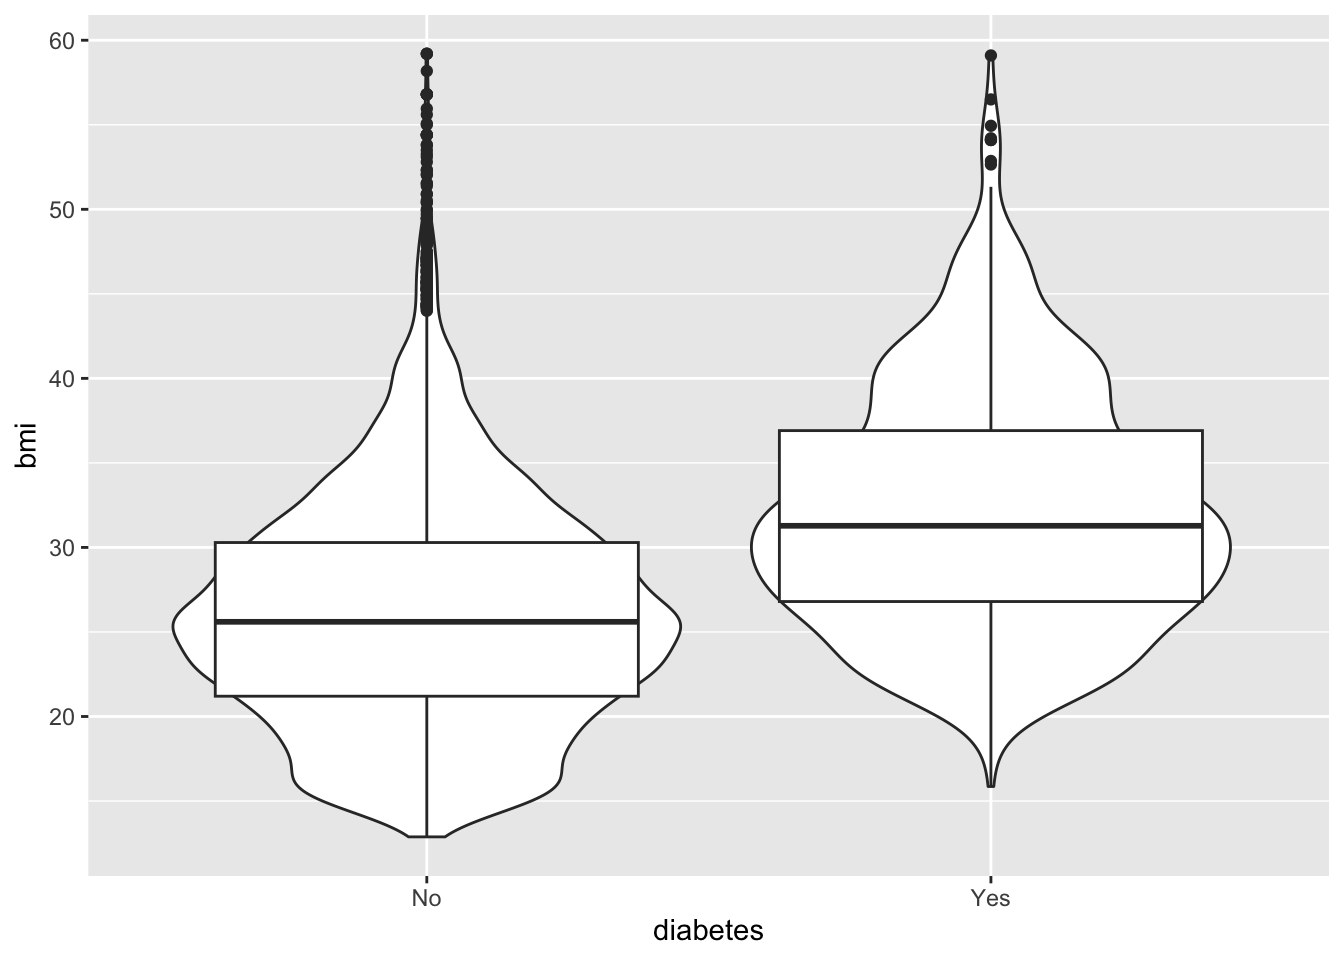
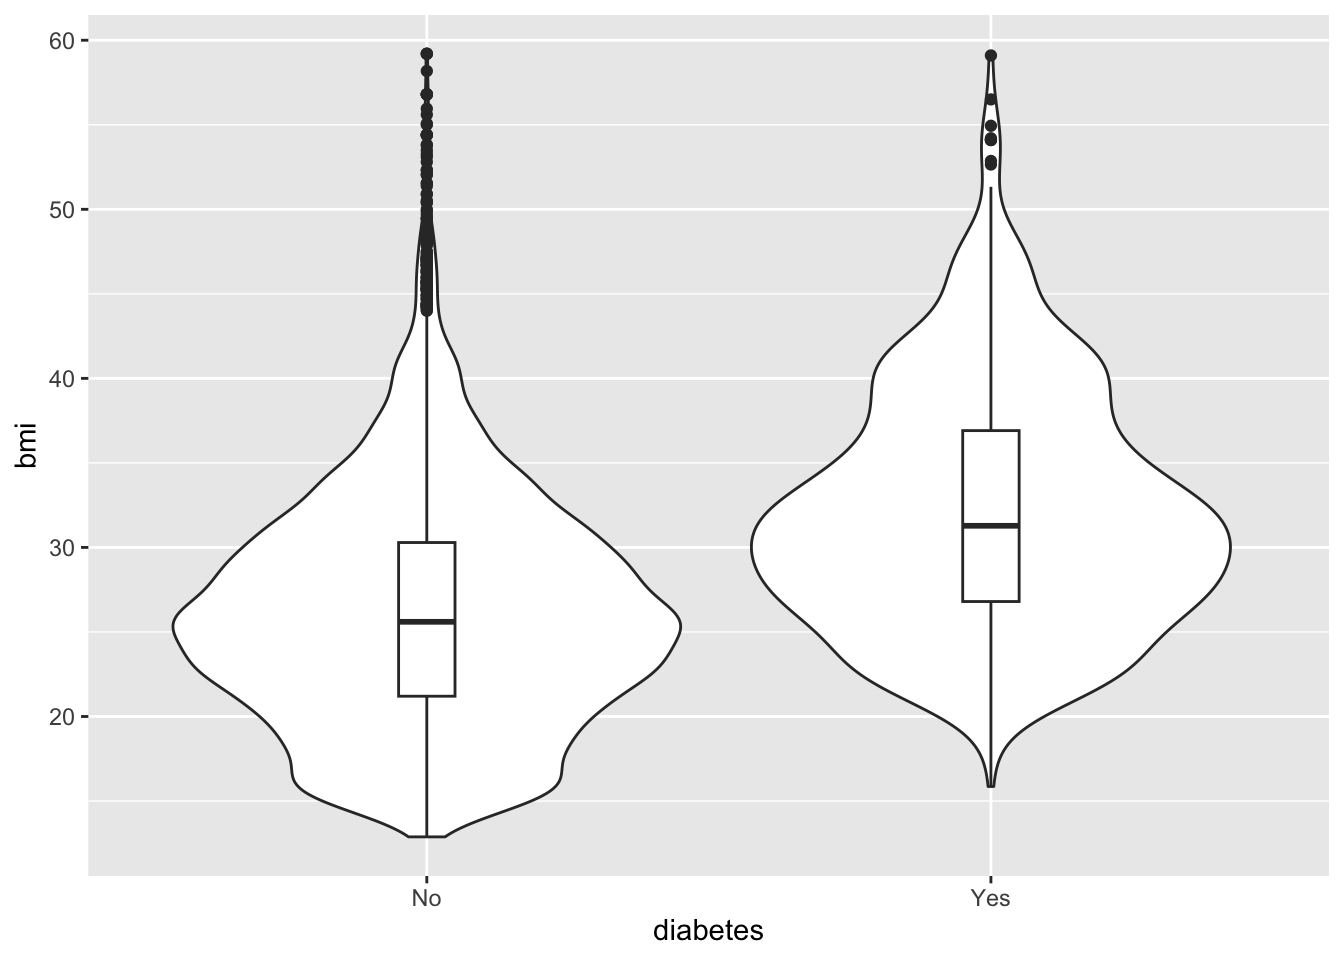
9.5 Exercise: Creating plots with one or two variables

diff --git a/doc/learning.html b/doc/learning.html
@@ -469,13 +469,87 @@ code span.wa { color: #60a0b0; font-weight: bold; font-style: italic; } /* Warni
 <span id="cb13-2"><a href="#cb13-2" aria-hidden="true" tabindex="-1"></a>    <span class="fu">filter</span>(<span class="sc">!</span><span class="fu">is.na</span>(diabetes), bmi <span class="sc">&lt;=</span> <span class="dv">60</span>) <span class="sc">%&gt;%</span> </span>
 <span id="cb13-3"><a href="#cb13-3" aria-hidden="true" tabindex="-1"></a>    <span class="fu">ggplot</span>(<span class="fu">aes</span>(<span class="at">x =</span> diabetes, <span class="at">y =</span> bmi)) <span class="sc">+</span></span>
 <span id="cb13-4"><a href="#cb13-4" aria-hidden="true" tabindex="-1"></a>    <span class="fu">geom_violin</span>(<span class="at">na.rm =</span> <span class="cn">TRUE</span>) <span class="sc">+</span></span>
-<span id="cb13-5"><a href="#cb13-5" aria-hidden="true" tabindex="-1"></a>    <span class="fu">geom_boxplot</span>(<span class="at">na.rm =</span> <span class="cn">TRUE</span>)</span></code><button title="Copy to Clipboard" class="code-copy-button"><i class="bi"></i></button></pre></div>
+<span id="cb13-5"><a href="#cb13-5" aria-hidden="true" tabindex="-1"></a>    <span class="fu">geom_boxplot</span>(<span class="at">na.rm =</span> <span class="cn">TRUE</span>, <span class="at">width=</span><span class="fl">0.1</span>)</span></code><button title="Copy to Clipboard" class="code-copy-button"><i class="bi"></i></button></pre></div>
 <div class="cell-output-display">
 <p><img src="learning_files/figure-html/unnamed-chunk-8-1.png" class="img-fluid" width="672"></p>
 </div>
 </div>
-<p>```</p>
 </section>
+</section>
+<section id="exercise-to-make-plots-with-one-or-two-variables" class="level2">
+<h2 class="anchored" data-anchor-id="exercise-to-make-plots-with-one-or-two-variables">Exercise to make plots with one or two variables</h2>
+<div class="cell">
+<div class="sourceCode cell-code" id="cb14"><pre class="sourceCode r code-with-copy"><code class="sourceCode r"><span id="cb14-1"><a href="#cb14-1" aria-hidden="true" tabindex="-1"></a><span class="fu">library</span>(NHANES)</span>
+<span id="cb14-2"><a href="#cb14-2" aria-hidden="true" tabindex="-1"></a>nhanes_exercise <span class="ot">&lt;-</span> NHANES <span class="sc">%&gt;%</span></span>
+<span id="cb14-3"><a href="#cb14-3" aria-hidden="true" tabindex="-1"></a>  <span class="fu">rename_with</span>(snakecase<span class="sc">::</span>to_snake_case) <span class="sc">%&gt;%</span></span>
+<span id="cb14-4"><a href="#cb14-4" aria-hidden="true" tabindex="-1"></a>  <span class="fu">rename</span>(<span class="at">sex =</span> gender)</span></code><button title="Copy to Clipboard" class="code-copy-button"><i class="bi"></i></button></pre></div>
+</div>
+<div>
+<div class="sourceCode cell-code" id="cb15"><pre class="sourceCode r code-with-copy"><code class="sourceCode r"><span id="cb15-1"><a href="#cb15-1" aria-hidden="true" tabindex="-1"></a><span class="co"># Distribution of age</span></span>
+<span id="cb15-2"><a href="#cb15-2" aria-hidden="true" tabindex="-1"></a><span class="fu">ggplot</span>(nhanes_exercise, <span class="fu">aes</span>(<span class="at">x =</span> diabetes_age)) <span class="sc">+</span></span>
+<span id="cb15-3"><a href="#cb15-3" aria-hidden="true" tabindex="-1"></a>    <span class="fu">geom_density</span>(<span class="at">na.rm =</span> <span class="cn">TRUE</span>)</span>
+<span id="cb15-4"><a href="#cb15-4" aria-hidden="true" tabindex="-1"></a></span>
+<span id="cb15-5"><a href="#cb15-5" aria-hidden="true" tabindex="-1"></a><span class="co"># Distribution of age at diabetes diagnosis</span></span>
+<span id="cb15-6"><a href="#cb15-6" aria-hidden="true" tabindex="-1"></a><span class="fu">ggplot</span>(nhanes_exercise, <span class="fu">aes</span>(<span class="at">x =</span> age)) <span class="sc">+</span></span>
+<span id="cb15-7"><a href="#cb15-7" aria-hidden="true" tabindex="-1"></a>    <span class="fu">geom_density</span>(<span class="at">na.rm =</span> <span class="cn">TRUE</span>)</span></code><button title="Copy to Clipboard" class="code-copy-button"><i class="bi"></i></button></pre></div>
+<div id="fig-diabetesage-age" class="cell quarto-layout-panel">
+<figure class="figure">
+<div class="quarto-layout-row quarto-layout-valign-top">
+<div class="cell-output-display quarto-layout-cell quarto-layout-cell-subref" style="flex-basis: 50.0%;justify-content: center;">
+<div id="fig-diabetesage-age-1" class="quarto-figure quarto-figure-center anchored">
+<figure class="figure">
+<p><img src="learning_files/figure-html/fig-diabetesage-age-1.png" class="img-fluid figure-img" data-ref-parent="fig-diabetesage-age" width="672"></p>
+<p></p><figcaption class="figure-caption">(a) Diabetes age</figcaption><p></p>
+</figure>
+</div>
+</div>
+<div class="cell-output-display quarto-layout-cell quarto-layout-cell-subref" style="flex-basis: 50.0%;justify-content: center;">
+<div id="fig-diabetesage-age-2" class="quarto-figure quarto-figure-center anchored">
+<figure class="figure">
+<p><img src="learning_files/figure-html/fig-diabetesage-age-2.png" class="img-fluid figure-img" data-ref-parent="fig-diabetesage-age" width="672"></p>
+<p></p><figcaption class="figure-caption">(b) Age</figcaption><p></p>
+</figure>
+</div>
+</div>
+</div>
+<p></p><figcaption class="figure-caption">Figure&nbsp;4: Counts of participants ages and age of diabetes diagnosis</figcaption><p></p>
+</figure>
+</div>
+</div>
+<div class="cell">
+<div class="sourceCode cell-code" id="cb16"><pre class="sourceCode r code-with-copy"><code class="sourceCode r"><span id="cb16-1"><a href="#cb16-1" aria-hidden="true" tabindex="-1"></a><span class="co"># Number of people who smoke now and are or above 20 years of age,</span></span>
+<span id="cb16-2"><a href="#cb16-2" aria-hidden="true" tabindex="-1"></a><span class="co"># removing those with missing smoking status.</span></span>
+<span id="cb16-3"><a href="#cb16-3" aria-hidden="true" tabindex="-1"></a>nhanes_exercise <span class="sc">%&gt;%</span> </span>
+<span id="cb16-4"><a href="#cb16-4" aria-hidden="true" tabindex="-1"></a>  <span class="fu">filter</span>(age <span class="sc">&gt;=</span> <span class="dv">20</span>, <span class="sc">!</span><span class="fu">is.na</span>(smoke_now)) <span class="sc">%&gt;%</span> </span>
+<span id="cb16-5"><a href="#cb16-5" aria-hidden="true" tabindex="-1"></a>  <span class="fu">ggplot</span>(<span class="fu">aes</span>(<span class="at">x =</span> smoke_now)) <span class="sc">+</span></span>
+<span id="cb16-6"><a href="#cb16-6" aria-hidden="true" tabindex="-1"></a>  <span class="fu">geom_bar</span>()</span></code><button title="Copy to Clipboard" class="code-copy-button"><i class="bi"></i></button></pre></div>
+<div class="cell-output-display">
+<div id="fig-smoke-now" class="quarto-figure quarto-figure-center anchored">
+<figure class="figure">
+<p><img src="learning_files/figure-html/fig-smoke-now-1.png" class="img-fluid figure-img" width="672"></p>
+<p></p><figcaption class="figure-caption">Figure&nbsp;5: Counts of smoking people at or above the age of 20</figcaption><p></p>
+</figure>
+</div>
+</div>
+</div>
+<div class="cell">
+<div class="sourceCode cell-code" id="cb17"><pre class="sourceCode r code-with-copy"><code class="sourceCode r"><span id="cb17-1"><a href="#cb17-1" aria-hidden="true" tabindex="-1"></a><span class="co"># BMI in relation to mean arterial pressure</span></span>
+<span id="cb17-2"><a href="#cb17-2" aria-hidden="true" tabindex="-1"></a>nhanes_exercise <span class="sc">%&gt;%</span> </span>
+<span id="cb17-3"><a href="#cb17-3" aria-hidden="true" tabindex="-1"></a>  <span class="fu">mutate</span>(<span class="at">mean_arterial_pressure =</span> (bp_sys_ave <span class="sc">+</span> (<span class="dv">2</span> <span class="sc">*</span> bp_dia_ave)) <span class="sc">/</span> <span class="dv">3</span>) <span class="sc">%&gt;%</span> </span>
+<span id="cb17-4"><a href="#cb17-4" aria-hidden="true" tabindex="-1"></a>  <span class="fu">ggplot</span>(<span class="fu">aes</span>(<span class="at">x =</span> bmi, <span class="at">y =</span> mean_arterial_pressure)) <span class="sc">+</span></span>
+<span id="cb17-5"><a href="#cb17-5" aria-hidden="true" tabindex="-1"></a>  <span class="fu">geom_hex</span>(<span class="at">na.rm =</span> <span class="cn">TRUE</span>) <span class="sc">+</span></span>
+<span id="cb17-6"><a href="#cb17-6" aria-hidden="true" tabindex="-1"></a>  <span class="fu">geom_smooth</span>()</span></code><button title="Copy to Clipboard" class="code-copy-button"><i class="bi"></i></button></pre></div>
+<div class="cell-output cell-output-stderr">
+<pre><code>`geom_smooth()` using method = 'gam' and formula = 'y ~ s(x, bs = "cs")'</code></pre>
+</div>
+<div class="cell-output cell-output-stderr">
+<pre><code>Warning: Removed 1513 rows containing non-finite values (`stat_smooth()`).</code></pre>
+</div>
+<div class="cell-output-display">
+<p><img src="learning_files/figure-html/unnamed-chunk-12-1.png" class="img-fluid" width="672"></p>
+</div>
+</div>
+<p>```</p>
 </section>
 </section>
 
